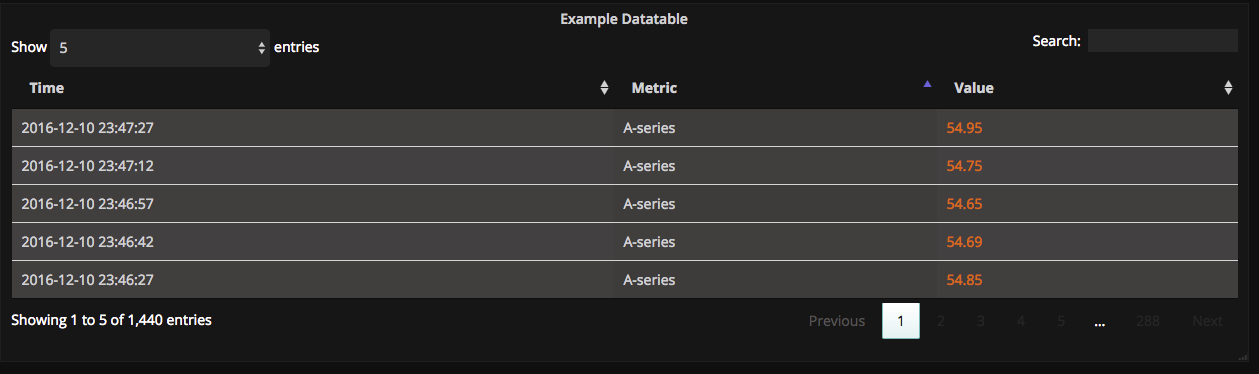
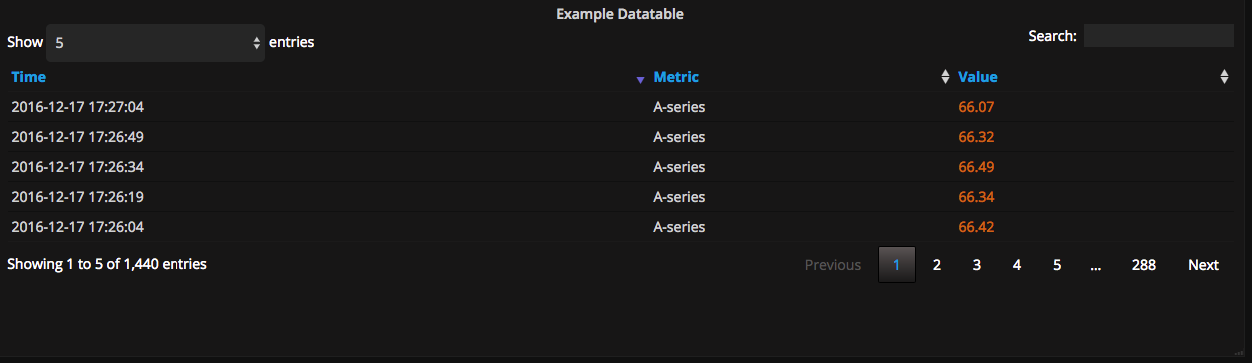
fixed thresholding for rowcolumn mode, updated screenshots

diff --git a/dist/renderer.js b/dist/renderer.js
@@ -296,23 +296,25 @@ System.register(['jquery', 'app/core/utils/kbn', 'moment', './libs/datatables.ne
                   if (_this.panel.rowNumbersEnabled) {
                     actualColumn -= 1;
                   }
-                  //console.log("checking column " + actualColumn);
                   if (_this.table.columns[actualColumn].type !== undefined) return;
-                  //console.log("processing column " + actualColumn);
                   // for coloring rows, get the "worst" threshold
-                  if (_this.colorState.row || _this.colorState.rowcolumn) {
+                  var rowColor = null;
+                  var color = null;
+                  var rowColorIndex = null;
+                  var rowColorData = null;
+                  if (_this.colorState.row) {
                     // run all of the rowData through threshold check, get the "highest" index
                     // and use that for the entire row
                     if (rowData === null) return;
-                    var rowColorIndex = -1;
-                    var rowColorData = null;
-                    var rowColor = _this.colorState.row;
+                    rowColorIndex = -1;
+                    rowColorData = null;
+                    rowColor = _this.colorState.row;
                     // this should be configurable...
-                    var color = 'white';
+                    color = 'white';
                     for (var columnNumber = 0; columnNumber < _this.table.columns.length; columnNumber++) {
                       // only columns of type undefined are checked
                       if (_this.table.columns[columnNumber].type === undefined) {
-                        rowColorData = _this.getCellColors(_this.colorState, columnNumber, rowData[columnNumber]);
+                        rowColorData = _this.getCellColors(_this.colorState, columnNumber, rowData[columnNumber + rowNumberOffset]);
                         if (rowColorData.bgColorIndex !== null) {
                           if (rowColorData.bgColorIndex > rowColorIndex) {
                             rowColorIndex = rowColorData.bgColorIndex;
@@ -321,11 +323,52 @@ System.register(['jquery', 'app/core/utils/kbn', 'moment', './libs/datatables.ne
                         }
                       }
                     }
+                    // style the entire row (the parent of the td is the tr)
+                    // this will color the rowNumber and Timestamp also
                     $(td.parentNode).children().css('color', color);
                     $(td.parentNode).children().css('background-color', rowColor);
                   }
 
-                  // Now process the cell coloring
+                  if (_this.colorState.rowcolumn) {
+                    // run all of the rowData through threshold check, get the "highest" index
+                    // and use that for the entire row
+                    if (rowData === null) return;
+                    rowColorIndex = -1;
+                    rowColorData = null;
+                    rowColor = _this.colorState.rowcolumn;
+                    // this should be configurable...
+                    color = 'white';
+                    for (var _columnNumber = 0; _columnNumber < _this.table.columns.length; _columnNumber++) {
+                      // only columns of type undefined are checked
+                      if (_this.table.columns[_columnNumber].type === undefined) {
+                        rowColorData = _this.getCellColors(_this.colorState, _columnNumber, rowData[_columnNumber + rowNumberOffset]);
+                        if (rowColorData.bgColorIndex !== null) {
+                          if (rowColorData.bgColorIndex > rowColorIndex) {
+                            rowColorIndex = rowColorData.bgColorIndex;
+                            rowColor = rowColorData.bgColor;
+                          }
+                        }
+                      }
+                    }
+                    // style the rowNumber and Timestamp column
+                    // the cell colors will be determined in the next phase
+                    if (_this.table.columns[0].type !== undefined) {
+                      var children = $(td.parentNode).children();
+                      var aChild = children[0];
+                      $(aChild).css('color', color);
+                      $(aChild).css('background-color', rowColor);
+                      // the 0 column contains the row number, if they are enabled
+                      // then the above just filled in the color for the row number,
+                      // now take care of the timestamp
+                      if (_this.panel.rowNumbersEnabled) {
+                        aChild = children[1];
+                        $(aChild).css('color', color);
+                        $(aChild).css('background-color', rowColor);
+                      }
+                    }
+                  }
+
+                  // Process cell coloring
                   // Two scenarios:
                   //    1) Cell coloring is enabled, the above row color is skipped
                   //    2) RowColumn is enabled, the above row color is process, but we also
@@ -376,7 +419,6 @@ System.register(['jquery', 'app/core/utils/kbn', 'moment', './libs/datatables.ne
               // shift the data to the right
             }
             var panelHeight = this.panel.panelHeight;
-            // console.log("panel height = " + panelHeight);
             var orderSetting = [[0, 'desc']];
             if (this.panel.rowNumbersEnabled) {
               // when row numbers are enabled, show them ascending
@@ -450,12 +492,6 @@ System.register(['jquery', 'app/core/utils/kbn', 'moment', './libs/datatables.ne
                 });
               }).draw();
             }
-            // to use scrolling vs paging, use these settings
-            // reference: http://www.jqueryscript.net/demo/DataTables-Jquery-Table-Plugin/examples/basic_init/scroll_y.html
-            //  "scrollY":        "200px",
-            //  "scrollCollapse": true,
-            //  "paging":         false
-            //console.log("Datatable Loaded!");
           }
         }, {
           key: 'render_values',

diff --git a/src/renderer.js b/src/renderer.js
@@ -269,23 +269,25 @@ export class DatatableRenderer {
               if (_this.panel.rowNumbersEnabled) {
                 actualColumn -= 1;
               }
-              //console.log("checking column " + actualColumn);
               if (_this.table.columns[actualColumn].type !== undefined) return;
-              //console.log("processing column " + actualColumn);
               // for coloring rows, get the "worst" threshold
-              if ((_this.colorState.row) || (_this.colorState.rowcolumn)) {
+              var rowColor = null;
+              var color = null;
+              var rowColorIndex = null;
+              var rowColorData = null;
+              if (_this.colorState.row) {
                 // run all of the rowData through threshold check, get the "highest" index
                 // and use that for the entire row
                 if (rowData === null) return;
-                var rowColorIndex = -1;
-                var rowColorData = null;
-                var rowColor = _this.colorState.row;
+                rowColorIndex = -1;
+                rowColorData = null;
+                rowColor = _this.colorState.row;
                 // this should be configurable...
-                var color = 'white';
+                color = 'white';
                 for (let columnNumber = 0; columnNumber < _this.table.columns.length; columnNumber++) {
                   // only columns of type undefined are checked
                   if (_this.table.columns[columnNumber].type === undefined) {
-                    rowColorData = _this.getCellColors(_this.colorState, columnNumber, rowData[columnNumber]);
+                    rowColorData = _this.getCellColors(_this.colorState, columnNumber, rowData[columnNumber + rowNumberOffset]);
                     if (rowColorData.bgColorIndex !== null) {
                       if (rowColorData.bgColorIndex > rowColorIndex) {
                         rowColorIndex = rowColorData.bgColorIndex;
@@ -294,11 +296,52 @@ export class DatatableRenderer {
                     }
                   }
                 }
+                // style the entire row (the parent of the td is the tr)
+                // this will color the rowNumber and Timestamp also
                 $(td.parentNode).children().css('color', color);
                 $(td.parentNode).children().css('background-color', rowColor);
               }
 
-              // Now process the cell coloring
+              if (_this.colorState.rowcolumn) {
+                // run all of the rowData through threshold check, get the "highest" index
+                // and use that for the entire row
+                if (rowData === null) return;
+                rowColorIndex = -1;
+                rowColorData = null;
+                rowColor = _this.colorState.rowcolumn;
+                // this should be configurable...
+                color = 'white';
+                for (let columnNumber = 0; columnNumber < _this.table.columns.length; columnNumber++) {
+                  // only columns of type undefined are checked
+                  if (_this.table.columns[columnNumber].type === undefined) {
+                    rowColorData = _this.getCellColors(_this.colorState, columnNumber, rowData[columnNumber + rowNumberOffset]);
+                    if (rowColorData.bgColorIndex !== null) {
+                      if (rowColorData.bgColorIndex > rowColorIndex) {
+                        rowColorIndex = rowColorData.bgColorIndex;
+                        rowColor = rowColorData.bgColor;
+                      }
+                    }
+                  }
+                }
+                // style the rowNumber and Timestamp column
+                // the cell colors will be determined in the next phase
+                if (_this.table.columns[0].type !== undefined) {
+                  var children = $(td.parentNode).children();
+                  var aChild = children[0];
+                  $(aChild).css('color', color);
+                  $(aChild).css('background-color', rowColor);
+                  // the 0 column contains the row number, if they are enabled
+                  // then the above just filled in the color for the row number,
+                  // now take care of the timestamp
+                  if (_this.panel.rowNumbersEnabled) {
+                    aChild = children[1];
+                    $(aChild).css('color', color);
+                    $(aChild).css('background-color', rowColor);
+                  }
+                }
+              }
+
+              // Process cell coloring
               // Two scenarios:
               //    1) Cell coloring is enabled, the above row color is skipped
               //    2) RowColumn is enabled, the above row color is process, but we also
@@ -351,7 +394,6 @@ export class DatatableRenderer {
       // shift the data to the right
     }
     var panelHeight = this.panel.panelHeight;
-    // console.log("panel height = " + panelHeight);
     let orderSetting = [[0, 'desc']];
     if (this.panel.rowNumbersEnabled) {
       // when row numbers are enabled, show them ascending
@@ -425,12 +467,6 @@ export class DatatableRenderer {
         } );
       } ).draw();
     }
-    // to use scrolling vs paging, use these settings
-    // reference: http://www.jqueryscript.net/demo/DataTables-Jquery-Table-Plugin/examples/basic_init/scroll_y.html
-    //  "scrollY":        "200px",
-    //  "scrollCollapse": true,
-    //  "paging":         false
-    //console.log("Datatable Loaded!");
   }
 
   render_values() {

diff --git a/README.md b/README.md
@@ -64,7 +64,7 @@ Theme Settings
 
 ##### Cell based threshold value coloring
 
-![Thresholding with Value Coloring](https://raw.githubusercontent.com/briangann/grafana-datatable-panel/master/src/screenshots/datatable-threshold-cell.png)
+![Thresholding with Value Coloring](https://raw.githubusercontent.com/briangann/grafana-datatable-panel/master/src/screenshots/datatable-threshold-value.png)
 
 ##### RowColumn threshold coloring
 
@@ -74,7 +74,9 @@ It also sets the color for each cell according to the threshold (you can tell wh
 
 This means - a row can have an overall color, with each cell indicating it's real threshold color.
 
-![Thresholding with RowColumn](https://raw.githubusercontent.com/briangann/grafana-datatable-panel/master/src/screenshots/datatable-threshold-rowcolumn.png)
+![Thresholding with RowColumn1](https://raw.githubusercontent.com/briangann/grafana-datatable-panel/master/src/screenshots/datatable-threshold-rowcolumn1.png)
+
+![Thresholding with RowColumn2](https://raw.githubusercontent.com/briangann/grafana-datatable-panel/master/src/screenshots/datatable-threshold-rowcolumn2.png)
 
 ##### RowColumn threshold coloring including row counter
 

diff --git a/dist/README.md b/dist/README.md
@@ -64,7 +64,7 @@ Theme Settings
 
 ##### Cell based threshold value coloring
 
-![Thresholding with Value Coloring](https://raw.githubusercontent.com/briangann/grafana-datatable-panel/master/src/screenshots/datatable-threshold-cell.png)
+![Thresholding with Value Coloring](https://raw.githubusercontent.com/briangann/grafana-datatable-panel/master/src/screenshots/datatable-threshold-value.png)
 
 ##### RowColumn threshold coloring
 
@@ -74,7 +74,9 @@ It also sets the color for each cell according to the threshold (you can tell wh
 
 This means - a row can have an overall color, with each cell indicating it's real threshold color.
 
-![Thresholding with RowColumn](https://raw.githubusercontent.com/briangann/grafana-datatable-panel/master/src/screenshots/datatable-threshold-rowcolumn.png)
+![Thresholding with RowColumn1](https://raw.githubusercontent.com/briangann/grafana-datatable-panel/master/src/screenshots/datatable-threshold-rowcolumn1.png)
+
+![Thresholding with RowColumn2](https://raw.githubusercontent.com/briangann/grafana-datatable-panel/master/src/screenshots/datatable-threshold-rowcolumn2.png)
 
 ##### RowColumn threshold coloring including row counter
 
